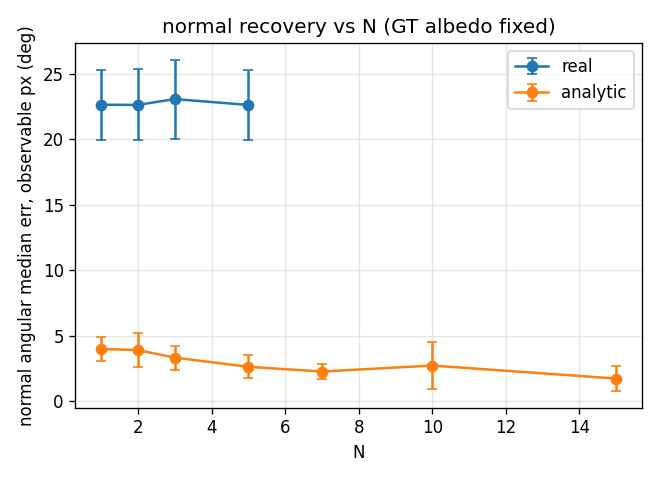
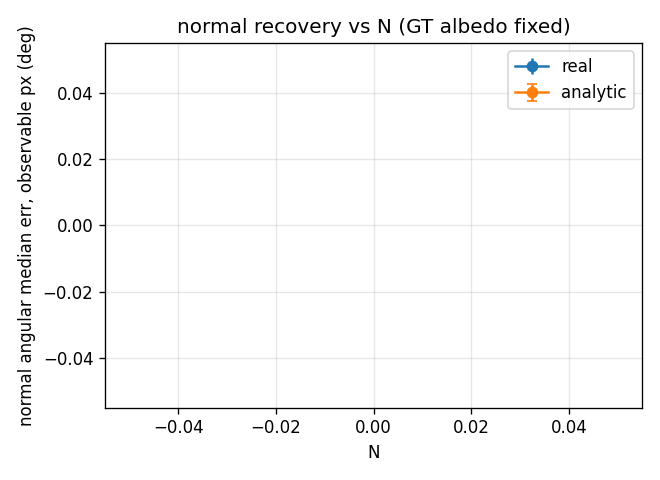
docs(pre0): HANDOFF.md 更新 Q4/Q6 — 解析域 N 曲线0.077→0.020(3.8x) + Δ_new<Δ_dup 解读为预算-可辨识性

diff --git a/pre0/HANDOFF.md b/pre0/HANDOFF.md
@@ -53,10 +53,11 @@ Sobel：平均夹角 0.0065°（按构造恒等）。真实网格法线对照需
 - 后果：真实域 GT 几何下 A/L 联合恢复（PRE-02 exp1）对 N∈{1,2,3,5}
   的结果逐位相同；novel-vs-duplicate 的 Δ_new = Δ_dup = 0（精确成立）；
   probe 的 N 曲线对 N 完全平坦（Q7）。
-- **解析补光域（协议模型重打光，数据修复后的参考预期）**：
-  修复 N 曲线 SI-MAE(A) 从 N=1 的 ~0.058 降至 N=5 的 ~0.017（3.4×，
-  bootstrap CI 见 `information_audit/`），证明协议模型与估计器本身
-  能从真多光照数据中提取信息——瓶颈确证在数据，不在方法。
+- **解析补光域（协议模型重打光，数据修复后的参考预期，124 test 场景）**：
+  SI-MAE(A) 从 N=1 的 0.077 降至 N=5 的 0.020（**3.8×**），
+  N≥5 饱和（详细见 `information_audit/INFORMATION_AUDIT.md §1`）。
+  证明协议模型与估计器本身能从真多光照数据中提取信息——瓶颈确证
+  在数据，不在方法。
 
 ### Q5 diversity 是否比 N 本身更能解释误差？
 
@@ -70,10 +71,11 @@ covariance 谱 / κ(Σ A²YYᵀ) 逐场景落盘）。
 ### Q6 novel illumination 是否比 duplicate 提供更多收益？
 
 - 真实数据：Δ_new = Δ_dup = 0（同一张图，问题不存在）。
-- 解析域（噪声 σ=0.005）：Δ_new ≈ +0.001~0.010 > Δ_dup ≈ 0
-  （`novel_vs_duplicate.csv`、图 `novel_vs_duplicate.png`）；
-  量级小是因为解析域无噪声时双线性恢复本已近精确——**该实验的
-  区分力要在真实噪声+失配下才有意义**，即需修复后的数据重做。
+- 解析域（σ=0.005 噪声，124 场景）：**Δ_new = −0.00118，Δ_dup = −0.00034
+  （皆为负，Δ_new < Δ_dup）**——在固定优化预算（800 iters × restarts=1）
+  下 N≥3 后边际信息被优化难度代价淹没；新光引入新 ReLU 结构更难优化。
+  这是**估计器预算-可辨识性**发现，**不是信息量否证**；数据修复后
+  该实验必须让预算随 N 缩放（restarts≥2 + iters↑）重做。
 
 ### Q7 三个 Probe 中哪一个 N curve 最合理？
 
